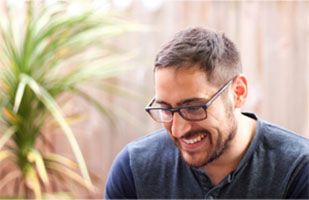
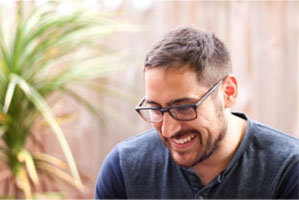
add div image

diff --git a/about.html b/about.html
@@ -150,21 +150,27 @@
 			<div class="grid grid-team">
 				<div class="grid-item">
 					<div class="card card-team">
+						<div class="card-team-image">
 						<img src="images/team1.jpg" alt="photo">
+						</div>
 						<h6>Joyce Hudson</h6>
 						<p>Founder & Designer</p>
 					</div>
 				</div>
 				<div class="grid-item">
 					<div class="card card-team">
+						<div class="card-team-image">
 						<img src="images/team2.jpg" alt="photo">
+						</div>
 						<h6>Angela Campbell</h6>
 						<p>Project Manager</p>
 					</div>
 				</div>
 				<div class="grid-item">
 					<div class="card card-team">
+						<div class="card-team-image">
 						<img src="images/team3.jpg" alt="photo">
+						</div>
 						<h6>James Walker</h6>
 						<p>Developer</p>
 					</div>

diff --git a/stylesheets/components/team.css b/stylesheets/components/team.css
@@ -1,11 +1,13 @@
 .grid-team .grid-item {
 	margin-right: 20px;
 	margin-left: 20px;
-	width: calc(100%/3 - 40px)
+	width: calc(100%/3 - 40px);
+	display: flex;
 }
 
 .card-team {
 	text-align: left;
+	width: 100%;
 }
 
 .card-team h6 {

diff --git a/stylesheets/components/about.css b/stylesheets/components/about.css
@@ -1,10 +1,11 @@
 
 .grid-about .grid-item {
 	margin-right: 40px;
-	width: calc(100% / 3 - 40px)
+	width: calc(100% / 3 - 40px);
 }
 
 .grid-about .grid-item:last-child {
 	margin-right: 0;
 }
+
 
